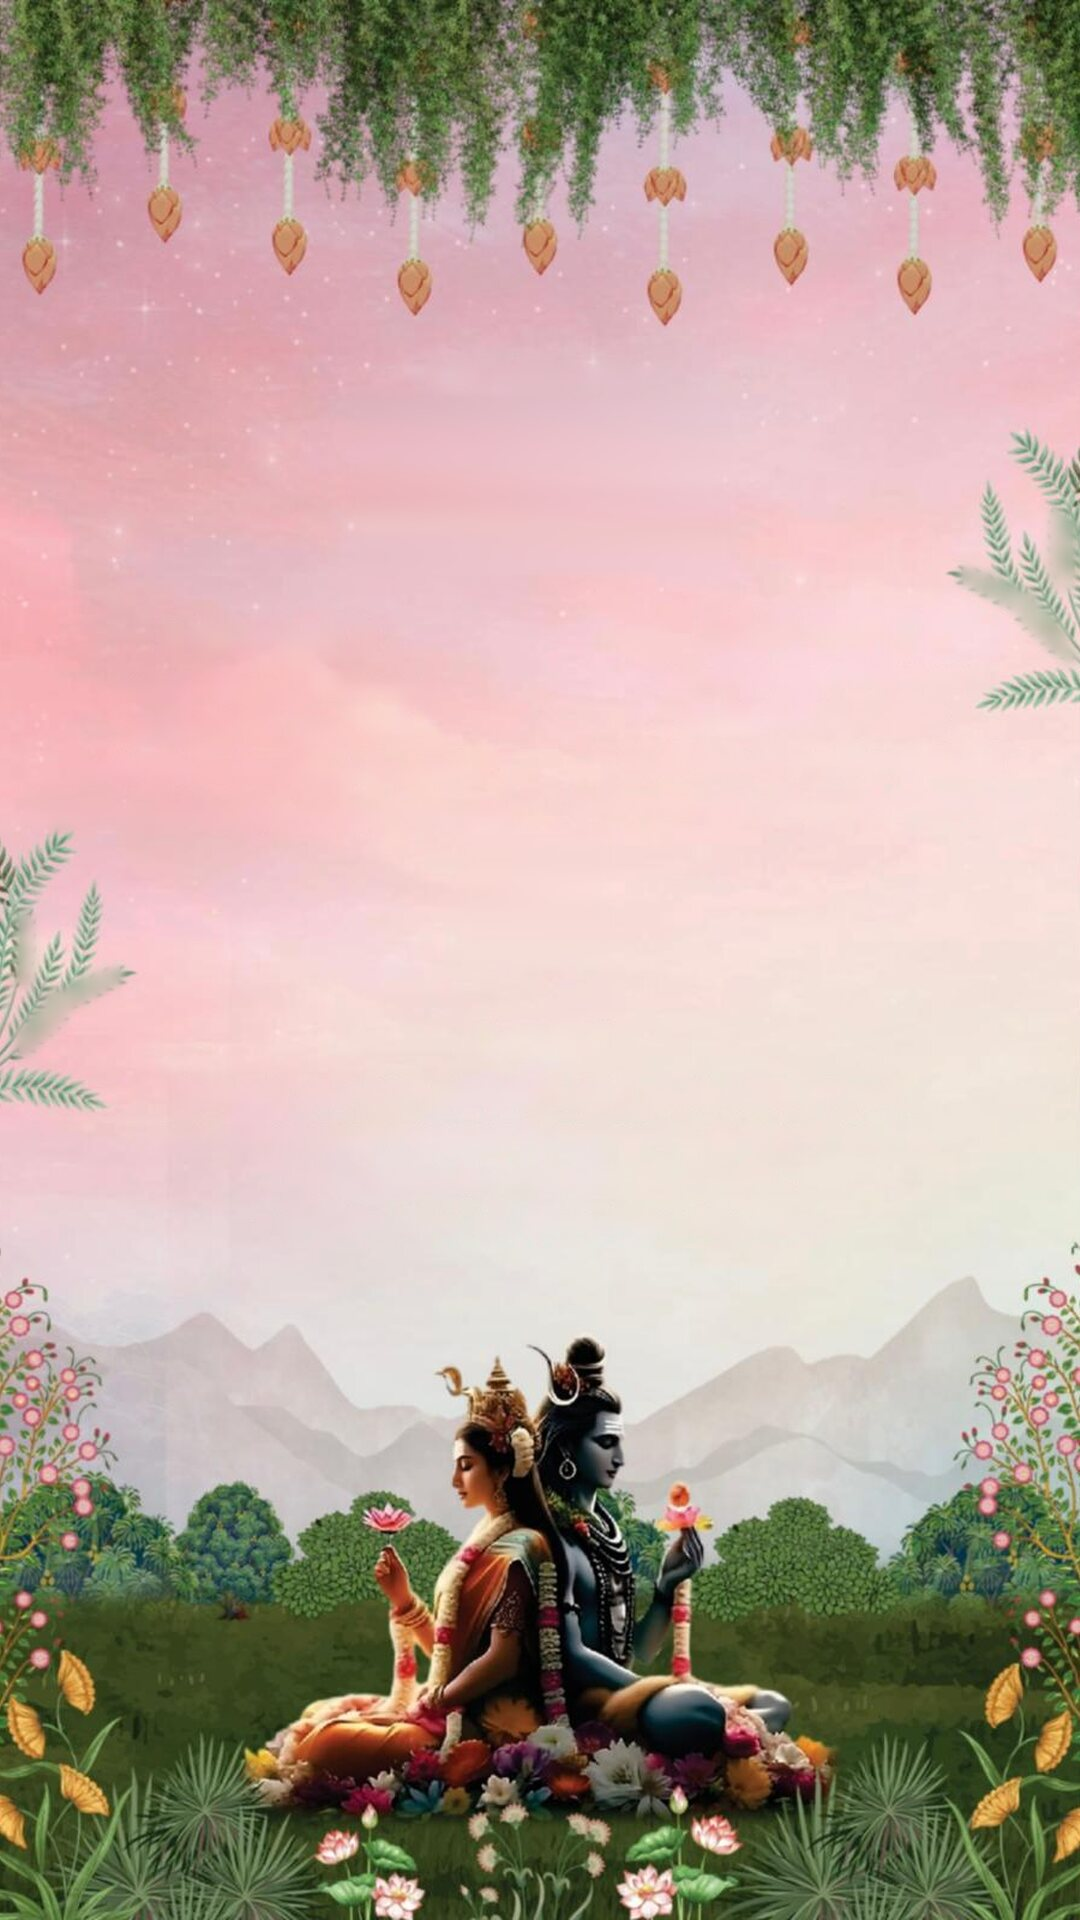
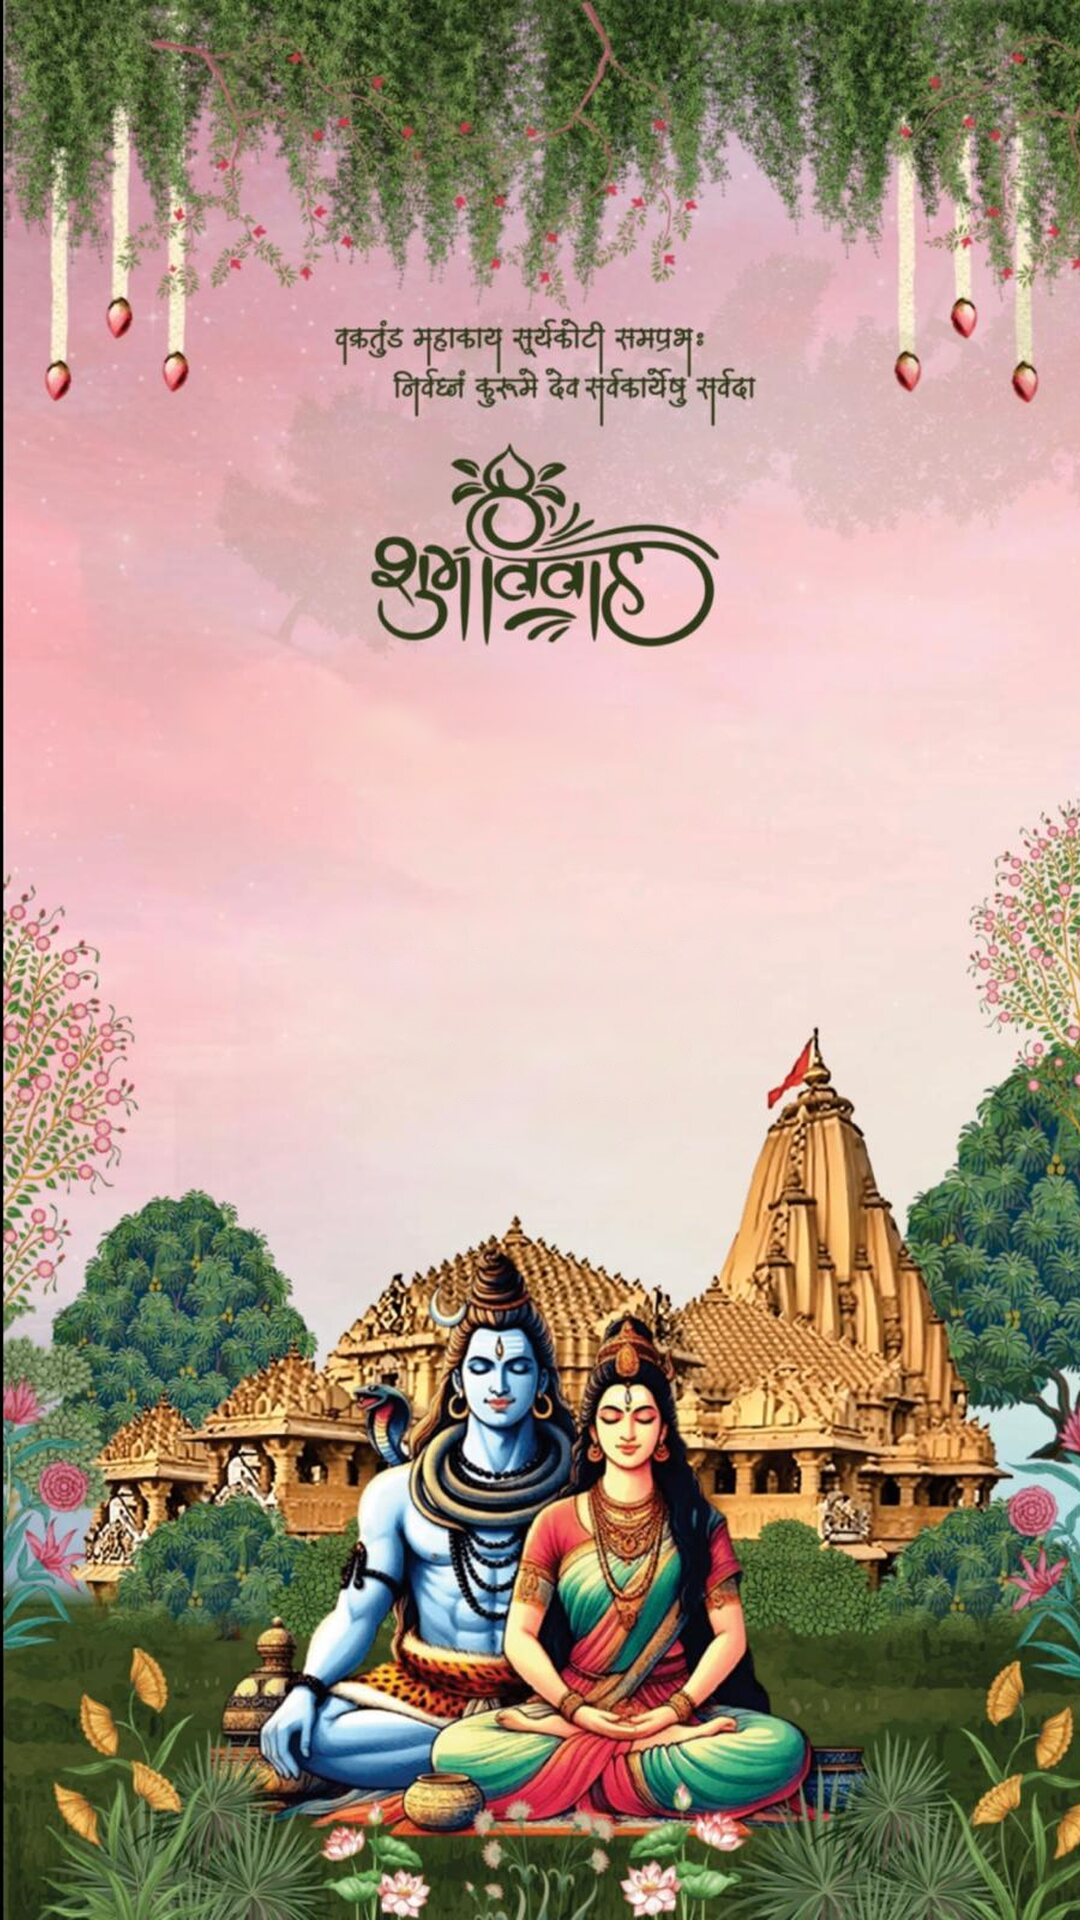
Keep the original calligraphy titles on the Sandhya pages
Each background keeps its printed title block (calligraphy, deity icon and invocation) and pages now follow those titles: Shubh Vivah cover, Mangalik Avsaro, Soneri Avsaro, Parinayotsav, Sneh Bandhan, Digital Aamantran, then Aavkarva Aatur.

Page images can set head, which leaves out the card's own title, flourish, emblem, invocation and shlok so they are not printed twice.

diff --git a/src/card/Card.tsx b/src/card/Card.tsx
@@ -70,21 +70,23 @@ function Heading({ x, children, size = 1.05 }: { x: Look; children: string; size
 
 const P = ({ show, style, children }: { show: boolean; style: CSSProperties; children: ReactNode }) => (show ? <div style={style}>{children}</div> : null)
 
-function Cover({ x, p, symbol }: { x: Look; p: CoverPage; symbol: SymbolId }) {
+function Cover({ x, p, symbol, head }: { x: Look; p: CoverPage; symbol: SymbolId; head: boolean }) {
   const c = x.d.colors
   const name: CSSProperties = { fontFamily: x.f.names, color: c.heading, fontSize: '1.95em', lineHeight: 1.2 }
   return (
     <>
-      <P show={!!p.invocation} style={{ fontSize: '0.92em', color: c.heading, fontWeight: 600 }}>
+      <P show={!head && !!p.invocation} style={{ fontSize: '0.92em', color: c.heading, fontWeight: 600 }}>
         {p.invocation}
       </P>
-      <P show={!!p.shlok} style={{ fontSize: '0.76em', color: c.muted, lineHeight: 1.35 }}>
+      <P show={!head && !!p.shlok} style={{ fontSize: '0.76em', color: c.muted, lineHeight: 1.35 }}>
         <Rich text={p.shlok} accent={c.accent} />
       </P>
-      <div style={{ width: '3.4em', alignSelf: 'center' }}>
-        <Emblem symbol={symbol} color={c.title} accent={c.accent} size="100%" />
-      </div>
-      <P show={!!p.title} style={{ fontFamily: x.f.title, color: c.title, fontSize: '2.5em', lineHeight: 1.15 }}>
+      {!head && (
+        <div style={{ width: '3.4em', alignSelf: 'center' }}>
+          <Emblem symbol={symbol} color={c.title} accent={c.accent} size="100%" />
+        </div>
+      )}
+      <P show={!head && !!p.title} style={{ fontFamily: x.f.title, color: c.title, fontSize: '2.5em', lineHeight: 1.15 }}>
         {p.title}
       </P>
       <P show={!!p.hostLine} style={{ fontSize: '0.92em', lineHeight: 1.4 }}>
@@ -141,7 +143,7 @@ function Cover({ x, p, symbol }: { x: Look; p: CoverPage; symbol: SymbolId }) {
 type Sec = SectionsPage['sections'][number]
 const lineCount = (b: string) => b.split('\n').length
 
-function Sections({ x, p }: { x: Look; p: SectionsPage }) {
+function Sections({ x, p, head }: { x: Look; p: SectionsPage; head: boolean }) {
   const c = x.d.colors
   const short = (s: Sec) => !!s.heading && lineCount(s.body) <= 5 && s.heading.length < 24
   // Pair consecutive short sections side by side, as kankotris do; long ones take the full width.
@@ -156,12 +158,14 @@ function Sections({ x, p }: { x: Look; p: SectionsPage }) {
   }
   return (
     <>
-      <P show={!!p.title} style={{ fontFamily: x.f.title, color: c.title, fontSize: '2.3em', lineHeight: 1.15 }}>
+      <P show={!head && !!p.title} style={{ fontFamily: x.f.title, color: c.title, fontSize: '2.3em', lineHeight: 1.15 }}>
         {p.title}
       </P>
-      <div style={{ width: '9em', alignSelf: 'center' }}>
-        <Flourish color={c.heading} width="100%" />
-      </div>
+      {!head && (
+        <div style={{ width: '9em', alignSelf: 'center' }}>
+          <Flourish color={c.heading} width="100%" />
+        </div>
+      )}
       {rows.map((row, i) => (
         <div key={i} style={{ display: 'flex', gap: '1em', width: '100%' }}>
           {row.map((s, j) => (
@@ -243,7 +247,7 @@ export function CardPage({ invite, page }: { invite: Invite; page: Page }) {
             fontSize: base,
           }}
         >
-          {page.kind === 'cover' ? <Cover x={x} p={page} symbol={t.symbol} /> : <Sections x={x} p={page} />}
+          {page.kind === 'cover' ? <Cover x={x} p={page} symbol={t.symbol} head={!!art?.head} /> : <Sections x={x} p={page} head={!!art?.head} />}
         </div>
       </div>
     </div>

diff --git a/src/card/designs-d.tsx b/src/card/designs-d.tsx
@@ -628,8 +628,9 @@ const chinar: Design = {
 }
 
 // Gujarati Sandhya kankotri: the couple's own pink dusk artwork, one painted scene per page,
-// with the printed text removed so every language can be typed over it.
-const SANDHYA_PAGES: [top: number, bottom: number][] = [[160, 320], [160, 275], [195, 292], [150, 400], [210, 310], [150, 420], [195, 370]]
+// with the printed text removed (titles kept) so every language can be typed over it.
+// Text band under each page's printed calligraphy title, in story px. Order follows the Gujarati page titles.
+const SANDHYA_PAGES: [top: number, bottom: number][] = [[330, 380], [295, 320], [275, 275], [345, 292], [272, 310], [258, 420], [320, 370]]
 const sandhya: Design = {
   id: 'sandhya',
   sky: '#f1c4cf',
@@ -637,7 +638,7 @@ const sandhya: Design = {
   fonts: { title: '"Pinyon Script"', heading: '"Marcellus"', body: serif, names: '"Pinyon Script"' },
   Top: () => null,
   Bottom: () => null,
-  pages: SANDHYA_PAGES.map(([top, bottom], i) => ({ src: `${import.meta.env.BASE_URL}templates/sandhya/${i + 1}.jpg`, top, bottom })),
+  pages: SANDHYA_PAGES.map(([top, bottom], i) => ({ src: `${import.meta.env.BASE_URL}templates/sandhya/${i + 1}.jpg`, top, bottom, head: true })),
   safe: { story: { top: 160, bottom: 320, x: 40 }, print: { top: 48, bottom: 182, x: 33 } },
 }
 

diff --git a/src/card/designs.tsx b/src/card/designs.tsx
@@ -37,7 +37,8 @@ export interface Design {
   Overlay?: FC<{ h: number }> // full-card frame, h in 540-wide units
   // Full-bleed 1080x1920 artwork, one per page (cycled), replacing Top/Bottom/Overlay.
   // top/bottom are the text-free band in 540x960 story px; print crops the image to 5:7.
-  pages?: { src: string; top: number; bottom: number }[]
+  // head: the image already prints the page title, symbol and invocation, so the card leaves them out.
+  pages?: { src: string; top: number; bottom: number; head?: boolean }[]
   // Text safe area in px, per format (story 540x960, print 450x630).
   safe: { story: Box; print: Box }
 }
